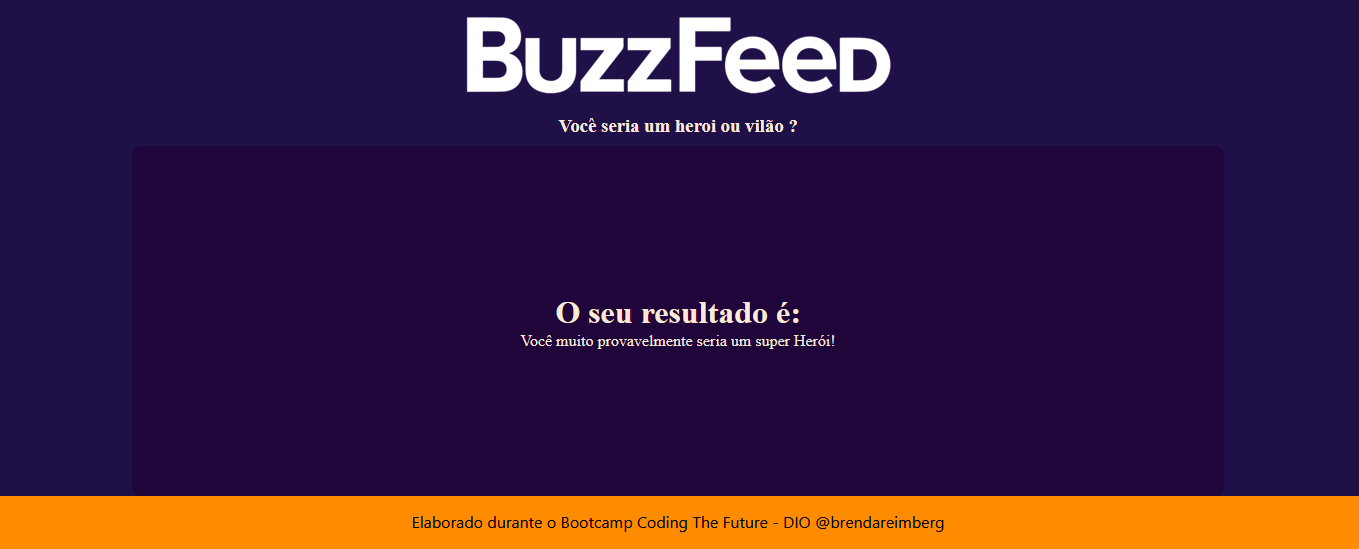
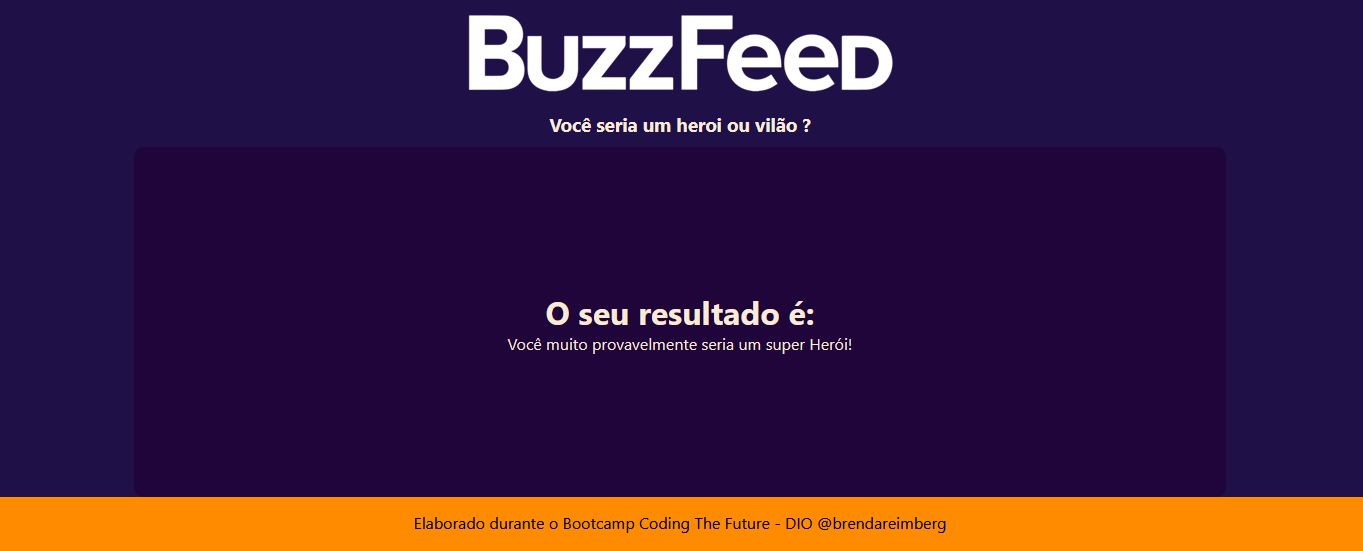
alterando CSS e README

diff --git a/src/app/components/quizz/quizz.component.css b/src/app/components/quizz/quizz.component.css
@@ -2,6 +2,7 @@
   width: 80%;
   margin: auto;
   margin-top: 20px;
+  font-family: 'Segoe UI';
 }
 
 .quizz_logo {
@@ -73,6 +74,7 @@
   flex-direction: column;
   justify-content: center;
   align-items: center;
+  font-family: 'Segoe UI';
 }
 
 footer {
